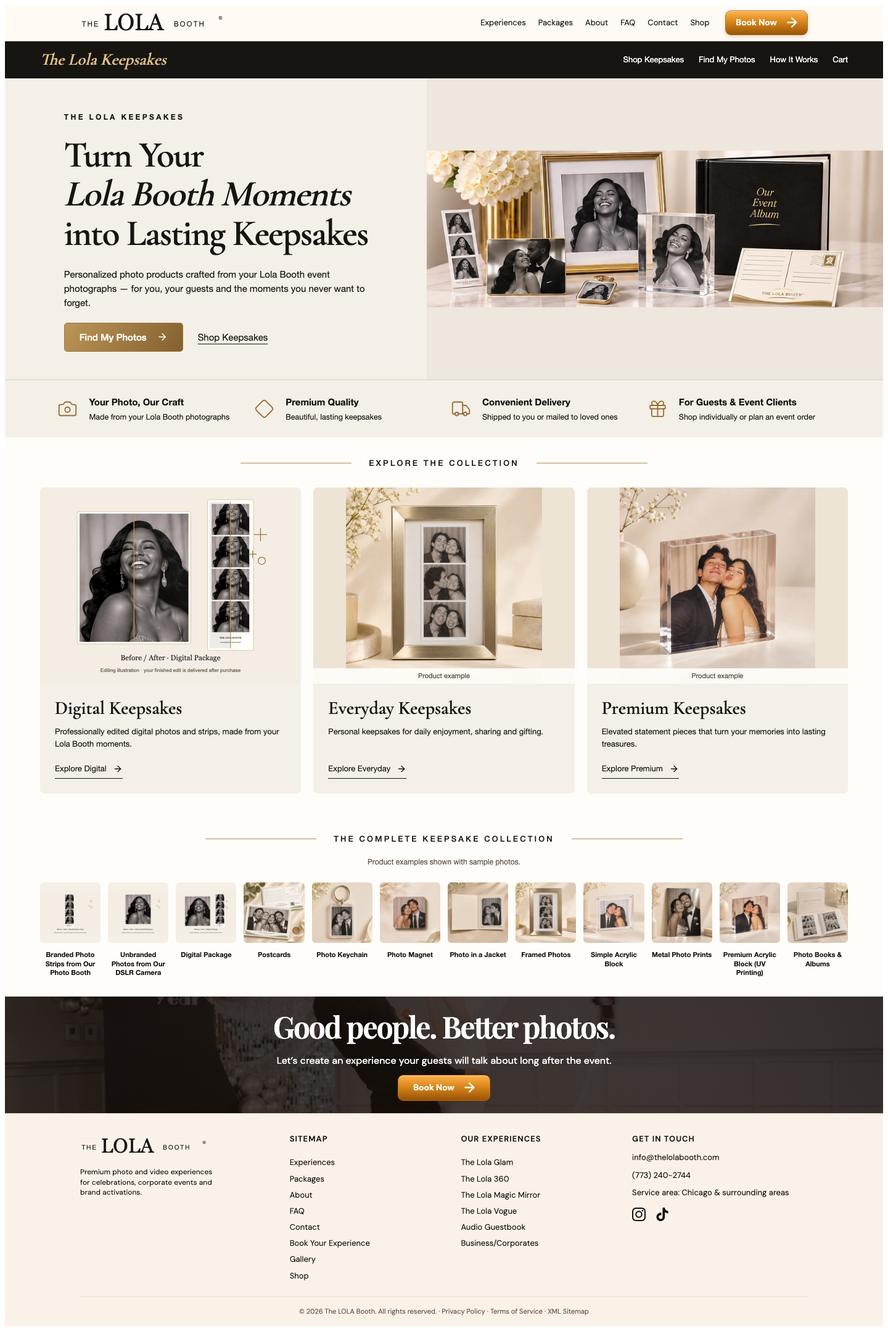
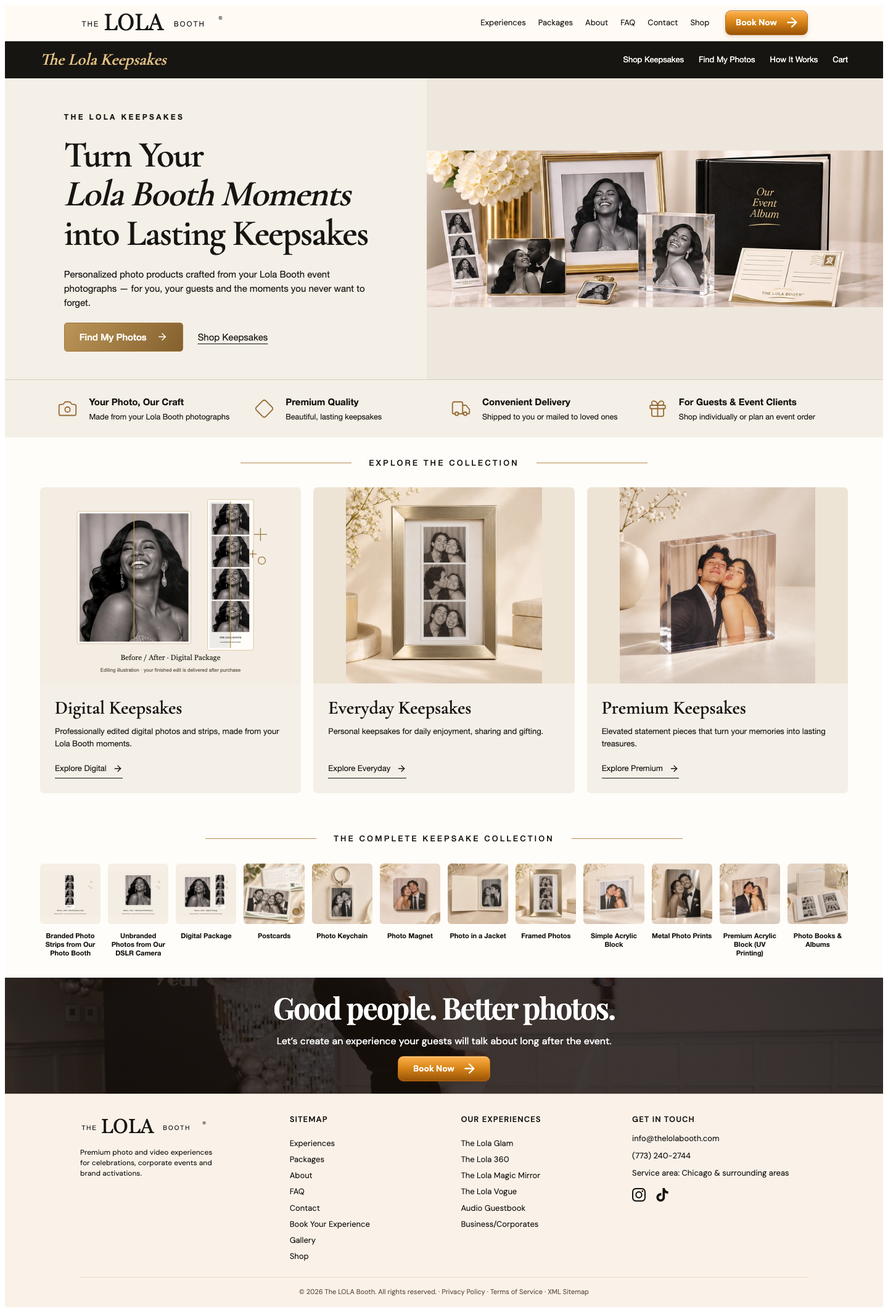
style: remove product example labels from customer pages

diff --git a/src/pages/KeepsakesShop.jsx b/src/pages/KeepsakesShop.jsx
@@ -28,7 +28,7 @@ function ProductCard({product}){
  return <article className="shop-product"><Link to={`/shop/products/${product.key}`} className="shop-product-image">{selected.length?((source.asset||product.collection==='digital')?<CoreKeepsakePreview product={product} asset={source.asset||source.reference} strip={source.strip} second={product.key==='photo-book'?collection?.assets.find(a=>a.id===selected[1]):null} back={back}/>:<div className="shop-preview-missing">{source.reason}</div>):<CoreKeepsakePreview product={product} illustrative/>}</Link>{product.key==='postcard'&&source.asset&&<button className="shop-flip" onClick={()=>setBack(!back)}>{back?'View front':'View back'}</button>}<div><h3><Link to={`/shop/products/${product.key}`}>{product.title}</Link></h3><p>{product.description}</p>{['premium-acrylic','photo-book','metal-print'].includes(product.key)&&<span className="shop-status">Coming soon</span>}{product.key==='photo-book'?(product.startingCents!=null?<strong>Starting at {money(product.startingCents)}</strong>:<span>Book configurations being prepared</span>):product.retailCents!=null&&<strong>{money(product.retailCents)}</strong>}<Link className="shop-button shop-button-dark" to={`/shop/products/${product.key}`}>View details <ArrowRight size={16}/></Link></div></article>;
 }
 function SelectedPhoto(){const {collection,selected}=useKeepsakesPhotos();const asset=collection?.assets.find(a=>a.id===selected[0]);return asset?<div className="shop-selected-photo"><GuestPhoto asset={asset} alt="Your selected photo"/><div><h2>Your Selected Photo</h2><p>Every keepsake begins with your Lola Booth memory.</p>{collection.assets.length>1&&<Link to="/shop/memories">Change photo</Link>}</div></div>:<Link className="shop-button" to="/shop/find-photos">Find My Photos <ArrowRight size={17}/></Link>;}
-function Home(){return <><section className="shop-hero"><div><p className="shop-kicker">THE LOLA KEEPSAKES</p><h1>Turn Your<br/><em>Lola Booth Moments</em><br/>into Lasting Keepsakes</h1><p>Personalized photo products crafted from your Lola Booth event photographs — for you, your guests and the moments you never want to forget.</p><div className="shop-actions"><Link className="shop-button" to="/shop/find-photos">Find My Photos <ArrowRight size={18}/></Link><Link className="shop-text-link" to="/shop/collection">Shop Keepsakes</Link></div></div><img className="shop-hero-photo" src="/assets/keepsakes/approved/hero.webp" alt="Approved Lola Keepsakes collection: framed photo, acrylic display, photo strip, keychain, postcard and album"/></section><section className="shop-benefits" aria-label="The Lola Keepsakes experience">{[[Camera,'Your Photo, Our Craft','Made from your Lola Booth photographs'],[Diamond,'Premium Quality','Beautiful, lasting keepsakes'],[Truck,'Convenient Delivery','Shipped to you or mailed to loved ones'],[Gift,'For Guests & Event Clients','Shop individually or plan an event order']].map(([Icon,title,text])=><div key={title}><Icon aria-hidden="true"/><span><strong>{title}</strong><small>{text}</small></span></div>)}</section><section className="shop-section"><div className="shop-section-heading"><span/> <h2>Explore the Collection</h2><span/></div><div className="shop-collections">{KEEPSAKES_COLLECTIONS.map(c=><Link key={c.id} to={`/shop/collection?collection=${c.id}`} className={`shop-collection shop-collection-${c.id}`}><CoreKeepsakePreview product={KEEPSAKES_CORE_PRODUCTS.find(p=>p.key===({digital:'edited-package',everyday:'framed-photo',signature:'premium-acrylic'}[c.id]))} illustrative/><div><h3>{c.title}</h3><p>{c.description}</p><span>Explore {c.title.split(' ')[0]} <ArrowRight size={16}/></span></div></Link>)}</div></section><section className="shop-section"><div className="shop-section-heading"><span/><h2>The Complete Keepsake Collection</h2><span/></div><p className="shop-examples-note">Product examples shown with sample photos.</p><div className="shop-product-strip">{KEEPSAKES_CORE_PRODUCTS.map(p=><Link key={p.key} to={`/shop/products/${p.key}`}><CoreKeepsakePreview product={p} illustrative/><span>{p.title}</span></Link>)}</div></section></>;}
+function Home(){return <><section className="shop-hero"><div><p className="shop-kicker">THE LOLA KEEPSAKES</p><h1>Turn Your<br/><em>Lola Booth Moments</em><br/>into Lasting Keepsakes</h1><p>Personalized photo products crafted from your Lola Booth event photographs — for you, your guests and the moments you never want to forget.</p><div className="shop-actions"><Link className="shop-button" to="/shop/find-photos">Find My Photos <ArrowRight size={18}/></Link><Link className="shop-text-link" to="/shop/collection">Shop Keepsakes</Link></div></div><img className="shop-hero-photo" src="/assets/keepsakes/approved/hero.webp" alt="Approved Lola Keepsakes collection: framed photo, acrylic display, photo strip, keychain, postcard and album"/></section><section className="shop-benefits" aria-label="The Lola Keepsakes experience">{[[Camera,'Your Photo, Our Craft','Made from your Lola Booth photographs'],[Diamond,'Premium Quality','Beautiful, lasting keepsakes'],[Truck,'Convenient Delivery','Shipped to you or mailed to loved ones'],[Gift,'For Guests & Event Clients','Shop individually or plan an event order']].map(([Icon,title,text])=><div key={title}><Icon aria-hidden="true"/><span><strong>{title}</strong><small>{text}</small></span></div>)}</section><section className="shop-section"><div className="shop-section-heading"><span/> <h2>Explore the Collection</h2><span/></div><div className="shop-collections">{KEEPSAKES_COLLECTIONS.map(c=><Link key={c.id} to={`/shop/collection?collection=${c.id}`} className={`shop-collection shop-collection-${c.id}`}><CoreKeepsakePreview product={KEEPSAKES_CORE_PRODUCTS.find(p=>p.key===({digital:'edited-package',everyday:'framed-photo',signature:'premium-acrylic'}[c.id]))} illustrative/><div><h3>{c.title}</h3><p>{c.description}</p><span>Explore {c.title.split(' ')[0]} <ArrowRight size={16}/></span></div></Link>)}</div></section><section className="shop-section"><div className="shop-section-heading"><span/><h2>The Complete Keepsake Collection</h2><span/></div><div className="shop-product-strip">{KEEPSAKES_CORE_PRODUCTS.map(p=><Link key={p.key} to={`/shop/products/${p.key}`}><CoreKeepsakePreview product={p} illustrative/><span>{p.title}</span></Link>)}</div></section></>;}
 function Collection({products,error}){const {collection}=useKeepsakesPhotos();const eligibleBooks=!collection||collection.audience==='CLIENT'||collection.assets.filter(a=>a.merchandiseEligible).length>5;const location=useLocation();const selection=new URLSearchParams(location.search).get('collection');return <><section className="shop-banner"><p className="shop-kicker">THE LOLA KEEPSAKES</p><h1>Our Keepsake Collections</h1><p>Digital favorites, everyday gifts and signature pieces. Each made from your Lola Booth photographs.</p><SelectedPhoto/></section><nav className="shop-filter" aria-label="Product collections"><Link aria-current={!selection?'page':undefined} to="/shop/collection">All Keepsakes</Link>{KEEPSAKES_COLLECTIONS.map(c=><Link key={c.id} aria-current={selection===c.id?'page':undefined} to={`/shop/collection?collection=${c.id}`}>{c.title}</Link>)}</nav>{error&&<p className="shop-status" role="status">Current pricing is unavailable. You can still explore the collection.</p>}{KEEPSAKES_COLLECTIONS.filter(c=>!selection||c.id===selection).map(c=><section key={c.id} className="shop-section"><div className="shop-section-heading"><span/><h2>{c.title}</h2><span/></div><div className="shop-products">{products.filter(p=>p.collection===c.id&&(p.key!=='photo-book'||eligibleBooks)).map(p=><ProductCard key={p.key} product={p}/>)}</div></section>)}</>;}
 function Product({products}){
  const location=useLocation(),[preview,setPreview]=useState({});
@@ -38,7 +38,7 @@ function Product({products}){
  const editing=cart.find(i=>i.id===new URLSearchParams(location.search).get('cartItem')&&i.productKey===p.key);
  const candidates=eligibleProductPhotos(p,collection?.assets||[]),chosen=photoChoice?.productKey===p.key?photoChoice.id:editing?.assetIds[0]||selectedProductPhoto(p,collection?.assets||[],selected[0]);
  const source=photoSourceForProduct(p,collection?.assets||[],chosen);
- return <section className="shop-detail"><Link className="shop-back" to="/shop/collection"><ArrowLeft size={17}/> Back to Keepsakes</Link><div>{source.asset||selected.length||editing?((source.asset||p.collection==='digital')?<CoreKeepsakePreview product={p} asset={source.asset||source.reference} strip={source.strip} variant={preview.variant} crop={preview.crop} second={p.key==='photo-book'?collection?.assets.find(a=>a.id===selected[1]):null} back={back}/>:<div className="shop-preview-missing">{source.reason}</div>):<CoreKeepsakePreview product={p} illustrative exampleIndex={exampleIndex}/>}{!selected.length&&!editing&&KEEPSAKES_PRODUCT_EXAMPLES[p.key]?.length>1&&<button className="shop-button shop-button-dark" onClick={()=>setExampleIndex(i=>i+1)}>View another product example</button>}{p.key==='postcard'&&source.asset&&<button className="shop-button shop-button-dark" onClick={()=>setBack(!back)}>{back?'View front':'View approved back'}</button>}</div><div><p className="shop-kicker">THE LOLA KEEPSAKES</p><h1>{p.title}</h1><p>{p.description}</p>{p.retailCents!=null&&<strong className="shop-price">{money(p.retailCents)}</strong>}<p className="shop-product-note">{source.asset?(p.collection==='digital'?'Your selected source is shown separately. Your finished edit will be delivered after purchase.':'A product visualization featuring your selected photo. Review your final print layout before payment.'):'Choose your own Lola Booth photo to personalize this keepsake.'}</p>{p.source==='MULTI_PHOTO'&&selected.length<2&&<p className="shop-status">Choose more photos from your collection to begin an album.</p>}{!collection?<Link className="shop-button" to="/shop/find-photos">Find My Photos <ArrowRight size={18}/></Link>:candidates.length>1?<button className="shop-button" onClick={()=>setPicker(!picker)}>{source.asset?'Change Photo':'Choose Photo'}</button>:!source.asset&&<p role="status">{source.reason}</p>}{picker&&<div className="shop-photo-picker" role="group" aria-label="Choose an authorized photo">{candidates.map(a=><button key={a.id} type="button" aria-label={a.label} aria-pressed={chosen===a.id} onClick={()=>{setPhotoChoice({productKey:p.key,id:a.id});setSelected([a.id,...selected.filter(id=>id!==a.id)]);setPicker(false);}}><GuestPhoto asset={a} alt={a.label}/><span>{a.label}</span></button>)}</div>}{!source.asset&&selected.length>0&&<p role="status" className="shop-status">{source.reason}</p>}<ProductConfiguration product={p} selectedId={chosen} onPreviewChange={setPreview}/><Link className="shop-text-link" to="/shop/event-clients">Planning an event? Ask about Keepsakes</Link></div></section>;
+ return <section className="shop-detail"><Link className="shop-back" to="/shop/collection"><ArrowLeft size={17}/> Back to Keepsakes</Link><div>{source.asset||selected.length||editing?((source.asset||p.collection==='digital')?<CoreKeepsakePreview product={p} asset={source.asset||source.reference} strip={source.strip} variant={preview.variant} crop={preview.crop} second={p.key==='photo-book'?collection?.assets.find(a=>a.id===selected[1]):null} back={back}/>:<div className="shop-preview-missing">{source.reason}</div>):<CoreKeepsakePreview product={p} illustrative exampleIndex={exampleIndex}/>}{!selected.length&&!editing&&KEEPSAKES_PRODUCT_EXAMPLES[p.key]?.length>1&&<button className="shop-button shop-button-dark" onClick={()=>setExampleIndex(i=>i+1)}>View another photo</button>}{p.key==='postcard'&&source.asset&&<button className="shop-button shop-button-dark" onClick={()=>setBack(!back)}>{back?'View front':'View approved back'}</button>}</div><div><p className="shop-kicker">THE LOLA KEEPSAKES</p><h1>{p.title}</h1><p>{p.description}</p>{p.retailCents!=null&&<strong className="shop-price">{money(p.retailCents)}</strong>}<p className="shop-product-note">{source.asset?(p.collection==='digital'?'Your selected source is shown separately. Your finished edit will be delivered after purchase.':'A product visualization featuring your selected photo. Review your final print layout before payment.'):'Choose your own Lola Booth photo to personalize this keepsake.'}</p>{p.source==='MULTI_PHOTO'&&selected.length<2&&<p className="shop-status">Choose more photos from your collection to begin an album.</p>}{!collection?<Link className="shop-button" to="/shop/find-photos">Find My Photos <ArrowRight size={18}/></Link>:candidates.length>1?<button className="shop-button" onClick={()=>setPicker(!picker)}>{source.asset?'Change Photo':'Choose Photo'}</button>:!source.asset&&<p role="status">{source.reason}</p>}{picker&&<div className="shop-photo-picker" role="group" aria-label="Choose an authorized photo">{candidates.map(a=><button key={a.id} type="button" aria-label={a.label} aria-pressed={chosen===a.id} onClick={()=>{setPhotoChoice({productKey:p.key,id:a.id});setSelected([a.id,...selected.filter(id=>id!==a.id)]);setPicker(false);}}><GuestPhoto asset={a} alt={a.label}/><span>{a.label}</span></button>)}</div>}{!source.asset&&selected.length>0&&<p role="status" className="shop-status">{source.reason}</p>}<ProductConfiguration product={p} selectedId={chosen} onPreviewChange={setPreview}/><Link className="shop-text-link" to="/shop/event-clients">Planning an event? Ask about Keepsakes</Link></div></section>;
 }
 function Information({event=false}){return <section className="shop-banner shop-information"><p className="shop-kicker">THE LOLA KEEPSAKES</p><h1>{event?'Keepsakes for Your Event':'Your Photos. Beautifully Kept.'}</h1>{event?<><p>Plan personalized guest gifts, premium albums and keepsake experiences for your celebration or business event.</p><p>Products, quantities, artwork, staffing and production timing are tailored to your event. A display stand, sharing station and live production station can be quoted separately.</p><a className="shop-button" href={websiteLink('availability.html')}>Request an Event Quote <ArrowRight size={18}/></a></>:<><ol><li><h2>Find your photos</h2><p>Open your secure Lola Booth photo link.</p></li><li><h2>Choose a keepsake</h2><p>Explore Digital, Everyday and Signature collections.</p></li><li><h2>Make it yours</h2><p>Choose supported photos, options and quantities, then review your order.</p></li><li><h2>Enjoy your memories</h2><p>Receive edited digital files, physical keepsakes or postcards mailed to your recipients.</p></li></ol><Link className="shop-button" to="/shop/find-photos">Find My Photos <ArrowRight size={18}/></Link></>}</section>;}
 function GalleryRedirect(){useEffect(()=>{window.location.replace(GALLERY+'/find-photos');},[]);return <p>Opening Find My Photos…</p>;}

diff --git a/src/components/KeepsakesBookBuilder.jsx b/src/components/KeepsakesBookBuilder.jsx
@@ -14,5 +14,5 @@ export default function KeepsakesBookBuilder(){
  function resume(d){setBooks(d.books);setVariantId(d.variantId);setSaved(d);setConfirmed(d.books.length>1);setNotice('Saved draft opened.');}
  if(collection&&catalog?.audience==='GUEST'&&catalog.eligible===false)return <section className="shop-banner"><h1>Photo Books</h1><p>A guest photo book needs more than five eligible photos in your authorized collection.</p><Link to="/shop/collection">Explore your other keepsakes</Link></section>;
  const total=books.reduce((sum,b)=>sum+b.copies*(variant?.retailCents||0),0);
- return <section className="shop-section shop-book-builder"><Link to="/shop/collection">← Back to Keepsakes</Link><p className="shop-kicker">THE LOLA KEEPSAKES</p><h1>Photo Books &amp; Albums</h1><p className="shop-status">Coming soon · save your selection while supported ordering configurations are completed.</p><p>A beautifully designed collection of your favorite Lola Booth memories.</p>{!collection?<><div className="shop-book-examples">{[0,1].map(index=><figure key={index}><img src={keepsakesExample('photo-book',index)} width="1254" height="1254" loading="lazy" alt={index?'Open album design example':'Photo book design example'}/><figcaption>Design inspiration · sample photos</figcaption></figure>)}</div><p>Open your authorized photo collection to start your book.</p><a className="shop-button" href="https://staginggallery.thelolabooth.com/find-photos">Find My Photos</a></>:<><p>{catalog?.audience==='CLIENT'?'Your booking-client collection · Books and premium event albums':'Your photo collection · Guest books use 5–20 different photos per book'}</p><Link to="/shop/memories">Choose photos ({selected.length} selected)</Link><div className="shop-book-config"><label>Book style<select aria-label="Book style" value={variantId} onChange={e=>{setVariantId(e.target.value);setBooks([]);setSaved(null);setConfirmed(false);}}>{catalog?.variants.map(v=><option value={v.id} key={v.id}>{v.label}{v.size?' · '+v.size:''}</option>)}</select></label>{variant&&<div><h2>{variant.label}</h2><p>{variant.available?'Configured price':'Price pending'}: <strong>{variant.available?money(variant.retailCents):'Coming soon'}</strong></p><p>{variant.cover}{variant.size?' · '+variant.size:''}</p>{!variant.available&&<p role="status">This configuration is being prepared. Save your photo selection now; ordering and final print proof are not available yet.</p>}{variant.kind==='ALBUM'&&<p>Up to 60 selected photos. Recommended design: 20 spreads / 40 facing pages. A 60-page design uses 30 spreads. Final options depend on your chosen album.</p>}</div>}<button className="shop-button" disabled={!variant||!selected.length} onClick={arrange}>Arrange selected photos</button></div>{books.length>0&&<><h2>{books.length} {books.length===1?'book':'books'} · {selected.length} selected photographs</h2><p>Different photos and physical copies are shown separately. Review each book before saving.</p>{books.map((b,index)=><article className="shop-book-draft" key={index}><h3>Book {index+1} · {b.photos.length} different photos</h3><div className="shop-book-fields"><label>Title<input maxLength={100} value={b.title} onChange={e=>change(index,{title:e.target.value})}/></label><label>Copies<input type="number" min="1" max="100" value={b.copies} onChange={e=>change(index,{copies:Number(e.target.value)})}/></label><label>Layout direction<select value={b.layout} onChange={e=>change(index,{layout:e.target.value})}><option value="EDITORIAL">Editorial</option><option value="FULL_PHOTO">Full photo</option></select></label></div><p>Photo sequence{variant.available?' · '+money(variant.retailCents)+' per copy · '+money(variant.retailCents*b.copies)+' for this book':' · pricing available with supported ordering configuration'}</p><div className="shop-book-sequence">{b.photos.map((id,i)=>{const asset=assets.find(a=>a.id===id);return <div key={id}><GuestPhoto asset={asset} alt={`Book ${index+1}, photo ${i+1}`}/><span>Photo {i+1}</span><label><input type="radio" name={'cover-'+index} checked={b.coverPhoto===id} onChange={()=>change(index,{coverPhoto:id})}/>Cover</label><button disabled={i===0} onClick={()=>{const photos=[...b.photos];[photos[i-1],photos[i]]=[photos[i],photos[i-1]];change(index,{photos});}}>Move earlier</button>{books.length>1&&<label>Move to book<select value={index} onChange={e=>{const to=Number(e.target.value);setBooks(all=>all.map((book,n)=>n===index?{...book,photos:book.photos.filter(p=>p!==id),coverPhoto:book.coverPhoto===id?book.photos.find(p=>p!==id):book.coverPhoto}:n===to?{...book,photos:[...book.photos,id]}:book));setConfirmed(false);setSaved(s=>s?{...s,dirty:true}:null);}}>{books.map((_,n)=><option key={n} value={n}>{n+1}</option>)}</select></label>}</div>;})}</div></article>)}<p><strong>{variant.available?'Book subtotal: '+money(total):'Price pending · ordering coming soon'}</strong> · shipping and tax calculated when checkout is available.</p>{books.length>1&&<label className="shop-access-banner"><input type="checkbox" checked={confirmed} onChange={e=>setConfirmed(e.target.checked)}/>I reviewed all {books.length} books, their photo allocations, copies and combined price.</label>}<button className="shop-button" disabled={busy||books.length>1&&!confirmed} onClick={save}>{busy?'Saving…':'Save book draft'}</button><p>Final print proof and purchase require a supported configuration and approval. This photo sequence is not a printer proof.</p></>}{drafts.length>0&&<section><h2>Your saved drafts</h2>{drafts.map(d=><button key={d.id} onClick={()=>resume(d)}>{d.books[0].title||'Untitled book'} · revision {d.revision}</button>)}</section>}</>}{error&&<p role="alert">{error}</p>}{notice&&<p role="status">{notice}</p>}</section>;
+ return <section className="shop-section shop-book-builder"><Link to="/shop/collection">← Back to Keepsakes</Link><p className="shop-kicker">THE LOLA KEEPSAKES</p><h1>Photo Books &amp; Albums</h1><p className="shop-status">Coming soon · save your selection while supported ordering configurations are completed.</p><p>A beautifully designed collection of your favorite Lola Booth memories.</p>{!collection?<><div className="shop-book-examples">{[0,1].map(index=><figure key={index}><img src={keepsakesExample('photo-book',index)} width="1254" height="1254" loading="lazy" alt={index?'Open album design example':'Photo book design example'}/></figure>)}</div><p>Open your authorized photo collection to start your book.</p><a className="shop-button" href="https://staginggallery.thelolabooth.com/find-photos">Find My Photos</a></>:<><p>{catalog?.audience==='CLIENT'?'Your booking-client collection · Books and premium event albums':'Your photo collection · Guest books use 5–20 different photos per book'}</p><Link to="/shop/memories">Choose photos ({selected.length} selected)</Link><div className="shop-book-config"><label>Book style<select aria-label="Book style" value={variantId} onChange={e=>{setVariantId(e.target.value);setBooks([]);setSaved(null);setConfirmed(false);}}>{catalog?.variants.map(v=><option value={v.id} key={v.id}>{v.label}{v.size?' · '+v.size:''}</option>)}</select></label>{variant&&<div><h2>{variant.label}</h2><p>{variant.available?'Configured price':'Price pending'}: <strong>{variant.available?money(variant.retailCents):'Coming soon'}</strong></p><p>{variant.cover}{variant.size?' · '+variant.size:''}</p>{!variant.available&&<p role="status">This configuration is being prepared. Save your photo selection now; ordering and final print proof are not available yet.</p>}{variant.kind==='ALBUM'&&<p>Up to 60 selected photos. Recommended design: 20 spreads / 40 facing pages. A 60-page design uses 30 spreads. Final options depend on your chosen album.</p>}</div>}<button className="shop-button" disabled={!variant||!selected.length} onClick={arrange}>Arrange selected photos</button></div>{books.length>0&&<><h2>{books.length} {books.length===1?'book':'books'} · {selected.length} selected photographs</h2><p>Different photos and physical copies are shown separately. Review each book before saving.</p>{books.map((b,index)=><article className="shop-book-draft" key={index}><h3>Book {index+1} · {b.photos.length} different photos</h3><div className="shop-book-fields"><label>Title<input maxLength={100} value={b.title} onChange={e=>change(index,{title:e.target.value})}/></label><label>Copies<input type="number" min="1" max="100" value={b.copies} onChange={e=>change(index,{copies:Number(e.target.value)})}/></label><label>Layout direction<select value={b.layout} onChange={e=>change(index,{layout:e.target.value})}><option value="EDITORIAL">Editorial</option><option value="FULL_PHOTO">Full photo</option></select></label></div><p>Photo sequence{variant.available?' · '+money(variant.retailCents)+' per copy · '+money(variant.retailCents*b.copies)+' for this book':' · pricing available with supported ordering configuration'}</p><div className="shop-book-sequence">{b.photos.map((id,i)=>{const asset=assets.find(a=>a.id===id);return <div key={id}><GuestPhoto asset={asset} alt={`Book ${index+1}, photo ${i+1}`}/><span>Photo {i+1}</span><label><input type="radio" name={'cover-'+index} checked={b.coverPhoto===id} onChange={()=>change(index,{coverPhoto:id})}/>Cover</label><button disabled={i===0} onClick={()=>{const photos=[...b.photos];[photos[i-1],photos[i]]=[photos[i],photos[i-1]];change(index,{photos});}}>Move earlier</button>{books.length>1&&<label>Move to book<select value={index} onChange={e=>{const to=Number(e.target.value);setBooks(all=>all.map((book,n)=>n===index?{...book,photos:book.photos.filter(p=>p!==id),coverPhoto:book.coverPhoto===id?book.photos.find(p=>p!==id):book.coverPhoto}:n===to?{...book,photos:[...book.photos,id]}:book));setConfirmed(false);setSaved(s=>s?{...s,dirty:true}:null);}}>{books.map((_,n)=><option key={n} value={n}>{n+1}</option>)}</select></label>}</div>;})}</div></article>)}<p><strong>{variant.available?'Book subtotal: '+money(total):'Price pending · ordering coming soon'}</strong> · shipping and tax calculated when checkout is available.</p>{books.length>1&&<label className="shop-access-banner"><input type="checkbox" checked={confirmed} onChange={e=>setConfirmed(e.target.checked)}/>I reviewed all {books.length} books, their photo allocations, copies and combined price.</label>}<button className="shop-button" disabled={busy||books.length>1&&!confirmed} onClick={save}>{busy?'Saving…':'Save book draft'}</button><p>Final print proof and purchase require a supported configuration and approval. This photo sequence is not a printer proof.</p></>}{drafts.length>0&&<section><h2>Your saved drafts</h2>{drafts.map(d=><button key={d.id} onClick={()=>resume(d)}>{d.books[0].title||'Untitled book'} · revision {d.revision}</button>)}</section>}</>}{error&&<p role="alert">{error}</p>}{notice&&<p role="status">{notice}</p>}</section>;
 }

diff --git a/test/keepsakes-commerce-fixes-browser.test.js b/test/keepsakes-commerce-fixes-browser.test.js
@@ -15,7 +15,7 @@ test('corrected catalog, eligible photos, email and multi-product cart work on d
  const assets=[{id:'original',kind:'ORIGINAL',branded:false,sessionId:'one'},{id:'strip',kind:'BRANDED_STRIP',branded:true,sessionId:'one'},{id:'second',kind:'ORIGINAL',branded:false,sessionId:'two'}].map(a=>({...a,merchandiseEligible:true,allowedProductIds:products.filter(p=>p.available).map(p=>p.productId),label:'Synthetic '+a.id,url:'/api/keepsakes/photos/assets/'+a.id}));
  for(const width of [1440,390,320]){const page=await browser.newPage({viewport:{width,height:1000}}),quotes=[],errors=[];let single=false;page.on('pageerror',e=>errors.push(e.message));await page.addInitScript(()=>{sessionStorage.setItem('lola-keepsakes-photo-session','synthetic-session');sessionStorage.setItem('lola-keepsakes-photo-session-selection','["original"]');});
  await page.route('**/api/keepsakes/catalogue',r=>r.fulfill({json:{products}}));await page.route('**/api/keepsakes/photos/collection',r=>r.fulfill({json:{contactEmail:'gallery-guest@example.invalid',audience:'GUEST',albums:[{id:'qa'}],assets:single?[assets[0]]:assets}}));await page.route('**/api/keepsakes/photos/assets/*',r=>r.fulfill({body:picture,contentType:'image/jpeg'}));await page.route('**/api/keepsakes/photos/commerce/postcard-preview',r=>r.fulfill({body:picture,contentType:'image/jpeg'}));await page.route('**/api/keepsakes/books/variants',r=>r.fulfill({json:{audience:'GUEST',eligible:false,variants:[]}}));await page.route('**/api/keepsakes/books/drafts',r=>r.fulfill({json:{drafts:[]}}));await page.route('**/api/keepsakes/photos/commerce/quote',r=>{quotes.push(r.request().postDataJSON());return r.fulfill({json:{quoteId:'qa-quote',checkoutReady:true,subtotalCents:1000,shippingCents:0,taxCents:100,totalCents:1100,proofs:[],issues:[]}});});
- await page.goto(origin+'/shop');await page.locator('.shop-product-strip>a').last().waitFor();assert.deepEqual(await page.locator('.shop-product-strip>a').evaluateAll(links=>links.map(a=>a.getAttribute('href').split('/').at(-1))),products.map(p=>p.key));await page.waitForFunction(()=>[...document.querySelectorAll('.shop-product-strip img')].every(i=>i.complete&&i.naturalWidth>0));await page.screenshot({path:path.join(os.tmpdir(),`lola-commerce-home-${width}.png`),fullPage:true});
+ await page.goto(origin+'/shop');await page.locator('.shop-product-strip>a').last().waitFor();assert.equal(await page.getByText('Product example',{exact:true}).count(),0);assert.equal(await page.getByText('Product examples shown with sample photos.',{exact:true}).count(),0);assert.deepEqual(await page.locator('.shop-product-strip>a').evaluateAll(links=>links.map(a=>a.getAttribute('href').split('/').at(-1))),products.map(p=>p.key));await page.waitForFunction(()=>[...document.querySelectorAll('.shop-product-strip img')].every(i=>i.complete&&i.naturalWidth>0));await page.screenshot({path:path.join(os.tmpdir(),`lola-commerce-home-${width}.png`),fullPage:true});
  // Every legitimately available product can be configured. Premium remains blocked.
  for(const p of products){await page.goto(origin+'/shop/products/'+p.key);if(p.key==='photo-book'){await page.getByRole('heading',{name:'Photo Books',exact:true}).waitFor();await page.getByText(/needs more than five eligible/).waitFor();continue;}await page.getByRole('heading',{name:p.title,exact:true}).waitFor();if(!p.available){assert.equal(await page.getByRole('button',{name:/Add to Cart/}).count(),0);continue;}if(p.key==='postcard'){await page.getByLabel('Postcards / recipients',{exact:true}).fill('2');await page.getByLabel('Personal message',{exact:true}).fill('Synthetic postcard message');assert.equal(await page.getByRole('group',{name:'Sender name and return address'}).count(),0);}await page.getByRole('button',{name:p.key==='postcard'?'Add to Cart · $20.00':'Add to Cart · $10.00',exact:true}).click();assert.ok(page.url().endsWith('/products/'+p.key));await page.getByRole('link',{name:'View Cart',exact:true}).waitFor();}
  await page.getByRole('link',{name:'Cart',exact:true}).click();await page.getByRole('heading',{name:'Your Keepsakes Cart',exact:true}).waitFor();assert.equal(await page.locator('.shop-cart-items article').count(),9);assert.equal(await page.getByLabel('Email address',{exact:true}).count(),0);await page.getByRole('button',{name:'Checkout',exact:true}).click();await page.getByText('gallery-guest@example.invalid',{exact:true}).waitFor();await page.getByRole('button',{name:'Change Email',exact:true}).click();await page.getByLabel('Email address',{exact:true}).fill('order-only@example.invalid');await page.getByRole('button',{name:'Use this email',exact:true}).click();assert.equal(await page.locator('.shop-cart-items article').count(),9);assert.equal(await page.getByRole('group',{name:'Sender name and return address'}).count(),1);

diff --git a/src/components/CoreKeepsakePreview.jsx b/src/components/CoreKeepsakePreview.jsx
@@ -18,7 +18,7 @@ export default function CoreKeepsakePreview({product,asset,strip,second,assets=[
  },[product.key,asset?.id,second?.id,JSON.stringify(assets.map(a=>a.id)),illustrative,back,template?.assetId,JSON.stringify(crop),context?.loadPhoto]);
  if(back&&product.key==='postcard')return <div className="shop-own-preview" data-preview-state="ready"><img src="/assets/keepsakes/lola-postcard-back-v2.svg" alt="Approved Lola postcard back template"/><small className="shop-preview-disclosure">Approved back · message and mailing details added during configuration</small></div>;
  if(digital)return <div className="shop-own-preview shop-digital-preview" data-preview-state="ready" data-photo-id={asset?.id||''}><img src={illustrativeSrc} width="1000" height="750" alt={`${product.title}: editing service illustration, not a completed edit`}/>{asset&&<div className="shop-digital-reference"><GuestPhoto asset={asset} alt="Selected gallery photograph · editing reference"/>{strip&&strip.id!==asset.id&&<GuestPhoto asset={strip} alt="Selected branded strip · editing reference"/>}<span>Selected source reference<br/><strong>We've got your photo. We'll take care of the finishing touches.</strong></span></div>}</div>;
- if(illustrative&&illustrativeSrc)return <div className="shop-own-preview shop-example-preview" data-preview-state="ready" data-example-image={marketing.original}><img className="shop-approved-product-example" src={marketing.src} srcSet={marketing.srcSet} sizes="(max-width:600px) 95vw,(max-width:1000px) 45vw, 50vw" width={marketing.width} height={marketing.height} loading="lazy" alt={marketing.alt}/><small className="shop-preview-disclosure">Product example</small></div>;
+ if(illustrative&&illustrativeSrc)return <div className="shop-own-preview shop-example-preview" data-preview-state="ready" data-example-image={marketing.original}><img className="shop-approved-product-example" src={marketing.src} srcSet={marketing.srcSet} sizes="(max-width:600px) 95vw,(max-width:1000px) 45vw, 50vw" width={marketing.width} height={marketing.height} loading="lazy" alt={marketing.alt}/></div>;
  if(illustrative)return <div className="shop-own-preview" data-preview-state="ready"><svg viewBox="0 0 800 600" role="img" aria-label="Aluminum photo print material illustration"><rect width="800" height="600" fill="#f3ede3"/><rect x="180" y="70" width="440" height="450" rx="8" fill="#b1b5b7"/><rect x="187" y="77" width="426" height="436" fill="#e7e8e7"/><path d="M240 400l100-120 80 80 60-70 90 110" stroke="#969c9e" strokeWidth="8" fill="none"/></svg><small className="shop-preview-disclosure">Material illustration · approved metal print photograph pending</small></div>;
  return <div className="shop-own-preview shop-personalized-product" data-preview-state={state} data-photo-id={asset?.id||''} data-template-id={template?.assetId||'metal-panel-geometry-v1'}><canvas width="1254" height="1254" ref={ref} hidden={state!=='ready'} role="img" aria-label={`Your photo on ${product.title}`}/>{state==='ready'?<small className="shop-preview-disclosure">Personalized product visualization · final print proof follows configuration</small>:<p role="status">{state==='loading'?'Preparing your keepsake…':'An approved preview is unavailable for this configuration.'}</p>}</div>;
 }

diff --git a/test/public-site-built-browser.test.js b/test/public-site-built-browser.test.js
@@ -29,7 +29,7 @@ test('built public bundles load without third-party stylesheets and show supplie
    const keychain=page.locator('[data-example-image$="/keychain-mono.png"] img');await keychain.scrollIntoViewIfNeeded();await keychain.evaluate(image=>image.decode());assert.equal(await keychain.getAttribute('src'),productMarketingImage('keychain').src);const geometry=await keychain.evaluate(image=>({imageHeight:image.getBoundingClientRect().height,previewHeight:image.parentElement.getBoundingClientRect().height,fit:getComputedStyle(image).objectFit}));assert.ok(geometry.imageHeight<=geometry.previewHeight+1,'The full product example must fit inside its preview');assert.equal(geometry.fit,'contain');
    const postcard=page.locator('[data-example-image$="/postcard-lifestyle.png"] img');await postcard.scrollIntoViewIfNeeded();await postcard.evaluate(node=>node.decode());
    await page.goto('https://'+host+'/shop');await page.getByRole('heading',{name:'The Complete Keepsake Collection',exact:true}).waitFor();const strip=page.locator('.shop-product-strip');await strip.scrollIntoViewIfNeeded();assert.equal(await strip.locator('a').count(),12);await page.waitForFunction(()=>document.querySelectorAll('.shop-product-strip [data-preview-state="ready"]').length===12);assert.equal(await strip.locator('.shop-preview-disclosure:visible').count(),0,'Thumbnail captions must not cover product images');for(const image of await strip.locator('img').all()){await image.scrollIntoViewIfNeeded();await image.evaluate(node=>node.decode());}assert.equal(await strip.locator('img').count(),12);const categoryGeometry=await page.locator('.shop-collection').evaluateAll(cards=>cards.map(card=>{const preview=card.querySelector('.shop-own-preview,.shop-digital-preview'),image=preview.querySelector('img,canvas');return {imageBottom:image.getBoundingClientRect().bottom,copyTop:preview.nextElementSibling.getBoundingClientRect().top};}));for(const box of categoryGeometry)assert.ok(box.imageBottom<=box.copyTop+1,'Collection photographs must not cover the category copy');await page.screenshot({path:path.join(os.tmpdir(),'lola-built-keepsakes-collection.jpg'),fullPage:true});
-   await page.goto('https://'+host+'/shop/products/framed-photo');const example=page.locator('[data-example-image]');await example.waitFor();assert.match(await example.getAttribute('data-example-image'),/frame-champagne/);await page.getByRole('button',{name:'View another product example'}).click();assert.match(await example.getAttribute('data-example-image'),/frame-ivory/);
+   await page.goto('https://'+host+'/shop/products/framed-photo');const example=page.locator('[data-example-image]');await example.waitFor();assert.match(await example.getAttribute('data-example-image'),/frame-champagne/);await page.getByRole('button',{name:'View another photo'}).click();assert.match(await example.getAttribute('data-example-image'),/frame-ivory/);
    await page.goto('https://'+host+'/shop/products/photo-book');await page.getByRole('img',{name:'Open album design example',exact:true}).waitFor();
   }
   assert.deepEqual(errors,[]);await page.close();

diff --git a/docs/keepsakes/commerce-fixes-20261126.md b/docs/keepsakes/commerce-fixes-20261126.md
@@ -4,6 +4,8 @@ Scope: corrected attachment `1bd78047-c8cd-4025-83da-fab373dd639f`. The previous
 
 ## Customer experience
 
+Owner follow-up: removed customer-facing Product example labels, the sample-photo note and book inspiration captions. Editing-service/source and final-proof explanations remain.
+
 - The twelve stable product keys retain pricing and history, with the requested display names and order below. `signature` remains the internal collection key; its display name is Premium Keepsakes.
 - A sole eligible photo resolves automatically. Otherwise the selected Gallery capture carries through, with an authorized, in-place Change Photo picker. Changing a photo preserves crop, style, quantity and postcard personalization. The cart stores each item's source IDs and customization separately.
 - Add to Cart stays on the product page and announces success with Continue Shopping and View Cart. Cart contact/delivery/recipient forms open only after Checkout is selected. Postcard message/font/accent customization stays on the product page; validated sender/recipient mailing details are entered at checkout.
